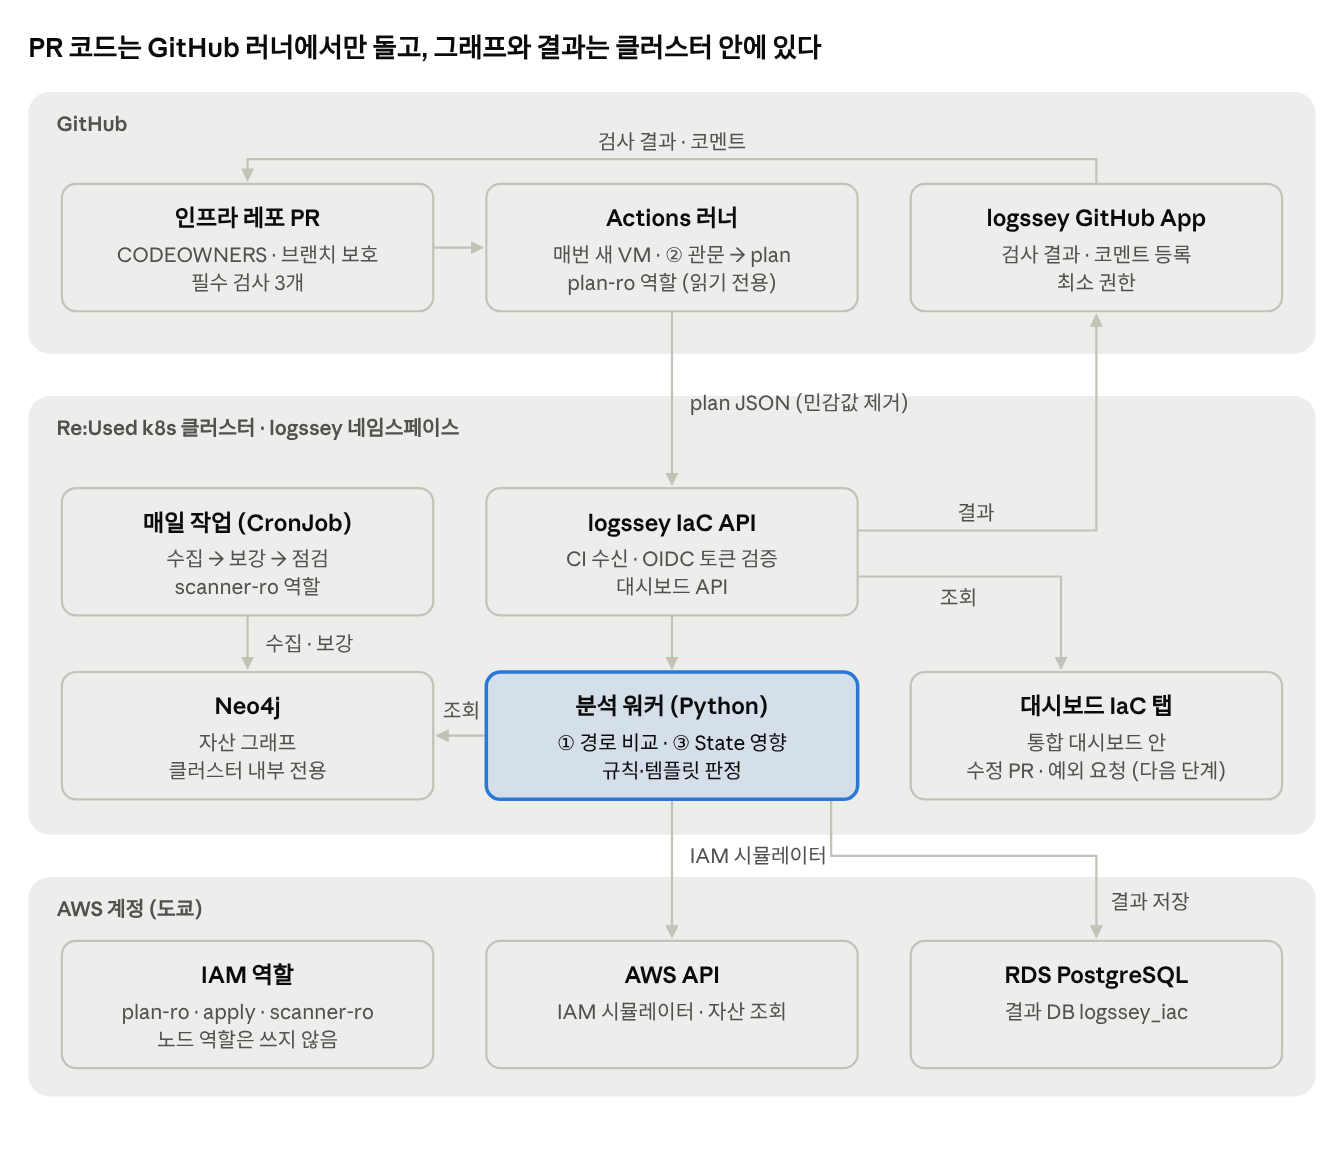
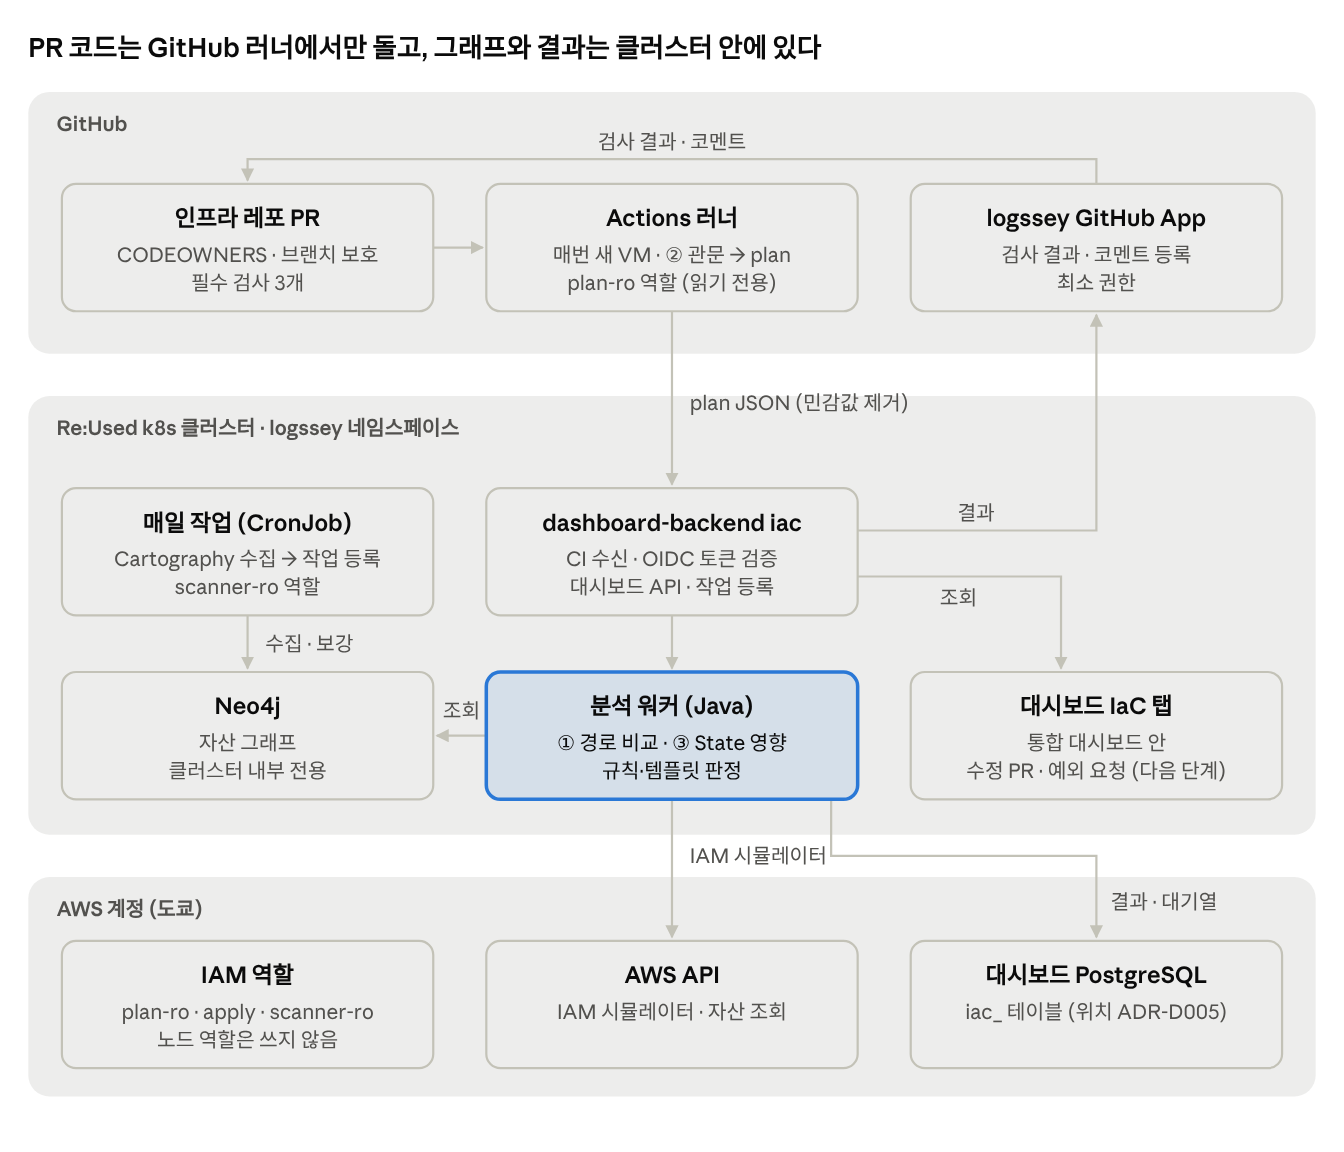
docs(iac): update architecture for dashboard-backend integration

diff --git a/iac-security/03-architecture/system-overview.md b/iac-security/03-architecture/system-overview.md
@@ -9,18 +9,20 @@
 
 악성 PR이 실행돼도 클러스터와 그래프에는 닿지 못함.
 
+**구현 위치**: 별도 서비스를 만들지 않고 기존 대시보드 백엔드(dashboard-backend, Spring Boot)에 `iac` 모듈로 통합. 분석만 별도 Java 워커로 분리 (ADR-11). Secret과 같은 구조.
+
 | 구성 요소 | 위치 | 역할 |
 |---|---|---|
 | 인프라 레포 | GitHub | Terraform 코드, CODEOWNERS, 브랜치 보호(필수 검사) |
 | PR 워크플로 | GitHub 호스티드 러너 | ② 관문(Conftest, 변경 감지, init 검증) → plan(plan-ro 역할) → 민감값을 지운 plan JSON 업로드 |
 | logssey GitHub App | GitHub | 검사 결과 3개, 요약 코멘트, 코드 줄 코멘트 등록. 개인 키는 Secrets Manager에 보관 |
-| logssey IaC API | k8s, logssey 네임스페이스 | CI 요청 수신(GitHub OIDC 토큰 검증), 대시보드 API. CI용 경로만 기존 CloudFront → 공개 NLB로 외부 노출 |
-| 분석 워커 (Python) | k8s | ① 경로 비교, ③ State 영향, IAM 시뮬레이터 호출 |
-| 매일 작업 (CronJob) | k8s | Cartography 수집(AWS + Kubernetes) → 그래프 보강 → 드리프트·State 점검 (scanner-ro 역할) |
+| dashboard-backend `iac` 모듈 | k8s, 기존 대시보드 백엔드 | `/api/v1/iac`. CI 요청 수신(GitHub OIDC 토큰 검증), 대시보드 API(세션 인증), `iac_jobs`에 분석 작업 등록. CI용 경로만 기존 CloudFront → 공개 NLB로 외부 노출 |
+| 분석 워커 (Java) | k8s, API와 별도 Deployment | `iac_jobs`에서 작업을 가져가 ① 경로 비교, ③ State 영향, 그래프 보강, IAM 시뮬레이터 호출. 분석이 끝나면 GitHub App으로 검사 결과·코멘트 등록 |
+| 매일 작업 (CronJob) | k8s | Cartography 수집(AWS + Kubernetes, 외부 도구) 후 보강·드리프트·State 점검 작업을 `iac_jobs`에 등록 (scanner-ro 역할) |
 | Neo4j | k8s, 내부 전용 | 자산 그래프 (Cartography에 맞춰 5.x) |
-| 결과 DB | 기존 RDS PostgreSQL의 별도 DB `logssey_iac` | 실행, 판정, 경로, 드리프트, 예외 |
+| 결과 DB | 대시보드 PostgreSQL의 `iac_` 테이블 | 실행, 작업 대기열, 판정, 경로, 드리프트. 운영 DB 서버 위치는 ADR-D005 ([ERD](database-schema.md)) |
 | IAM 역할 3개 | AWS | plan-ro(PR, 읽기 전용), apply(main 머지 후), scanner-ro(매일 작업, 읽기 전용) |
-| 대시보드 | 기존 logssey 대시보드 | 클라우드 보안 › IaC 보안 탭 |
+| 대시보드 화면 | 기존 logssey 대시보드 프런트엔드 | 클라우드 보안 › IaC 보안 탭 |
 
 ## 전체 아키텍처
 
@@ -30,7 +32,8 @@ PR 코드는 GitHub 러너에서만 돌고, 그래프와 결과는 클러스터 
 
 - 러너는 plan JSON만 클러스터로 보내고, 클러스터는 PR 코드를 실행하지 않음.
 - AWS 자격 증명은 용도별 읽기 전용 역할로 나누고 노드 역할은 쓰지 않음.
-- 호스티드 러너가 클러스터 API에 닿아야 하므로 CI용 경로는 외부에 열리고, OIDC 토큰 검증과 요청 제한으로 보호함.
+- 호스티드 러너가 dashboard-backend에 닿아야 하므로 CI용 경로는 외부에 열리고, OIDC 토큰 검증과 요청 제한으로 보호함.
+- API와 워커는 PostgreSQL 대기열(`iac_jobs`)로만 주고받고, DB 계정과 권한을 나눔.
 
 ## 데이터 흐름
 
@@ -43,10 +46,10 @@ PR 분석은 매일 보강한 그래프의 복사본 위에서 돈다.
 
 | 데이터 | 만드는 곳 | 쓰는 곳 | 보관 |
 |---|---|---|---|
-| plan JSON (민감값 제거) | 러너 | 분석 워커 | 분석 후 삭제 |
+| plan JSON (민감값 제거) | 러너 | 분석 워커 | `iac_plan_payloads`에 임시 보관, 분석 후 또는 1시간 뒤 삭제 |
 | 자산 그래프 | 매일 작업 | 분석 워커, 대시보드 | Neo4j, 매일 갱신 |
-| result.json | 분석 워커 | GitHub App, 결과 DB | DB에 결과만 |
-| 드리프트·State 결과 | 매일 작업 | 결과 DB, 대시보드 | 주소·속성 이름만 (값 없음) |
+| 분석 결과 | 분석 워커 | GitHub App, 대시보드 | `iac_findings`·`iac_run_path_changes`에 결과만 |
+| 드리프트·State 결과 | 분석 워커 (매일 작업이 등록) | 대시보드 | `iac_findings`, 주소·속성 이름만 (값 없음) |
 
 | 항목 | 내용 |
 |---|---|
